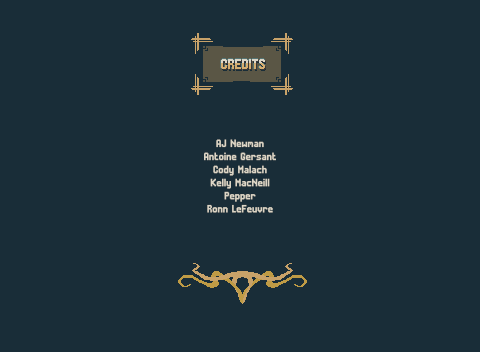
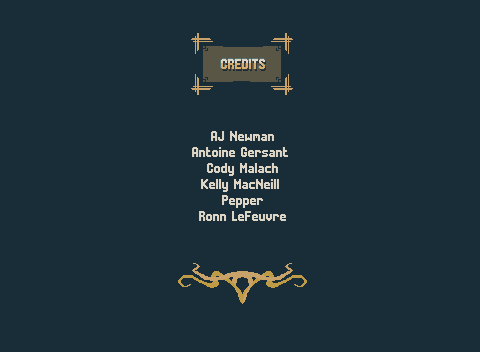
Adds end scenes

Changed region(s): [[0.375, 0.375, 0.5938, 0.625]]

diff --git a/scenes/Credits.cs b/scenes/Credits.cs
@@ -1,0 +1,31 @@
+using Godot;
+using System;
+
+public partial class Credits : Control
+{
+
+	bool Released = false;
+
+	public override void _Process(double delta)
+	{
+		if (!Input.IsKeyPressed(Key.Space))
+		{
+			Released = true;
+		}
+	}
+
+	public override void _UnhandledInput(InputEvent @event)
+	{
+		if (!Released)
+		{
+			return;
+		}
+		if (@event is InputEventKey eventKey)
+		{
+			if (eventKey.Pressed && eventKey.Keycode == Key.Space)
+			{
+				GetTree().ChangeSceneToFile("res://scenes/TitleScreen.tscn");
+			}
+		}
+	}
+}

diff --git a/scenes/GoodEnd.cs b/scenes/GoodEnd.cs
@@ -1,0 +1,16 @@
+using Godot;
+using System;
+
+public partial class GoodEnd : Control
+{
+	public override void _UnhandledInput(InputEvent @event)
+	{
+		if (@event is InputEventKey eventKey)
+		{
+			if (eventKey.Pressed && eventKey.Keycode == Key.Space)
+			{
+				GetTree().ChangeSceneToFile("res://scenes/Credits.tscn");
+			}
+		}
+	}
+}

diff --git a/scenes/BadEnd.cs b/scenes/BadEnd.cs
@@ -1,0 +1,10 @@
+using Godot;
+using System;
+
+public partial class BadEnd : Control
+{
+	public override void _UnhandledInput(InputEvent @event)
+	{
+		GetTree().ChangeSceneToFile("res://scenes/Credits.tscn");
+	}
+}
